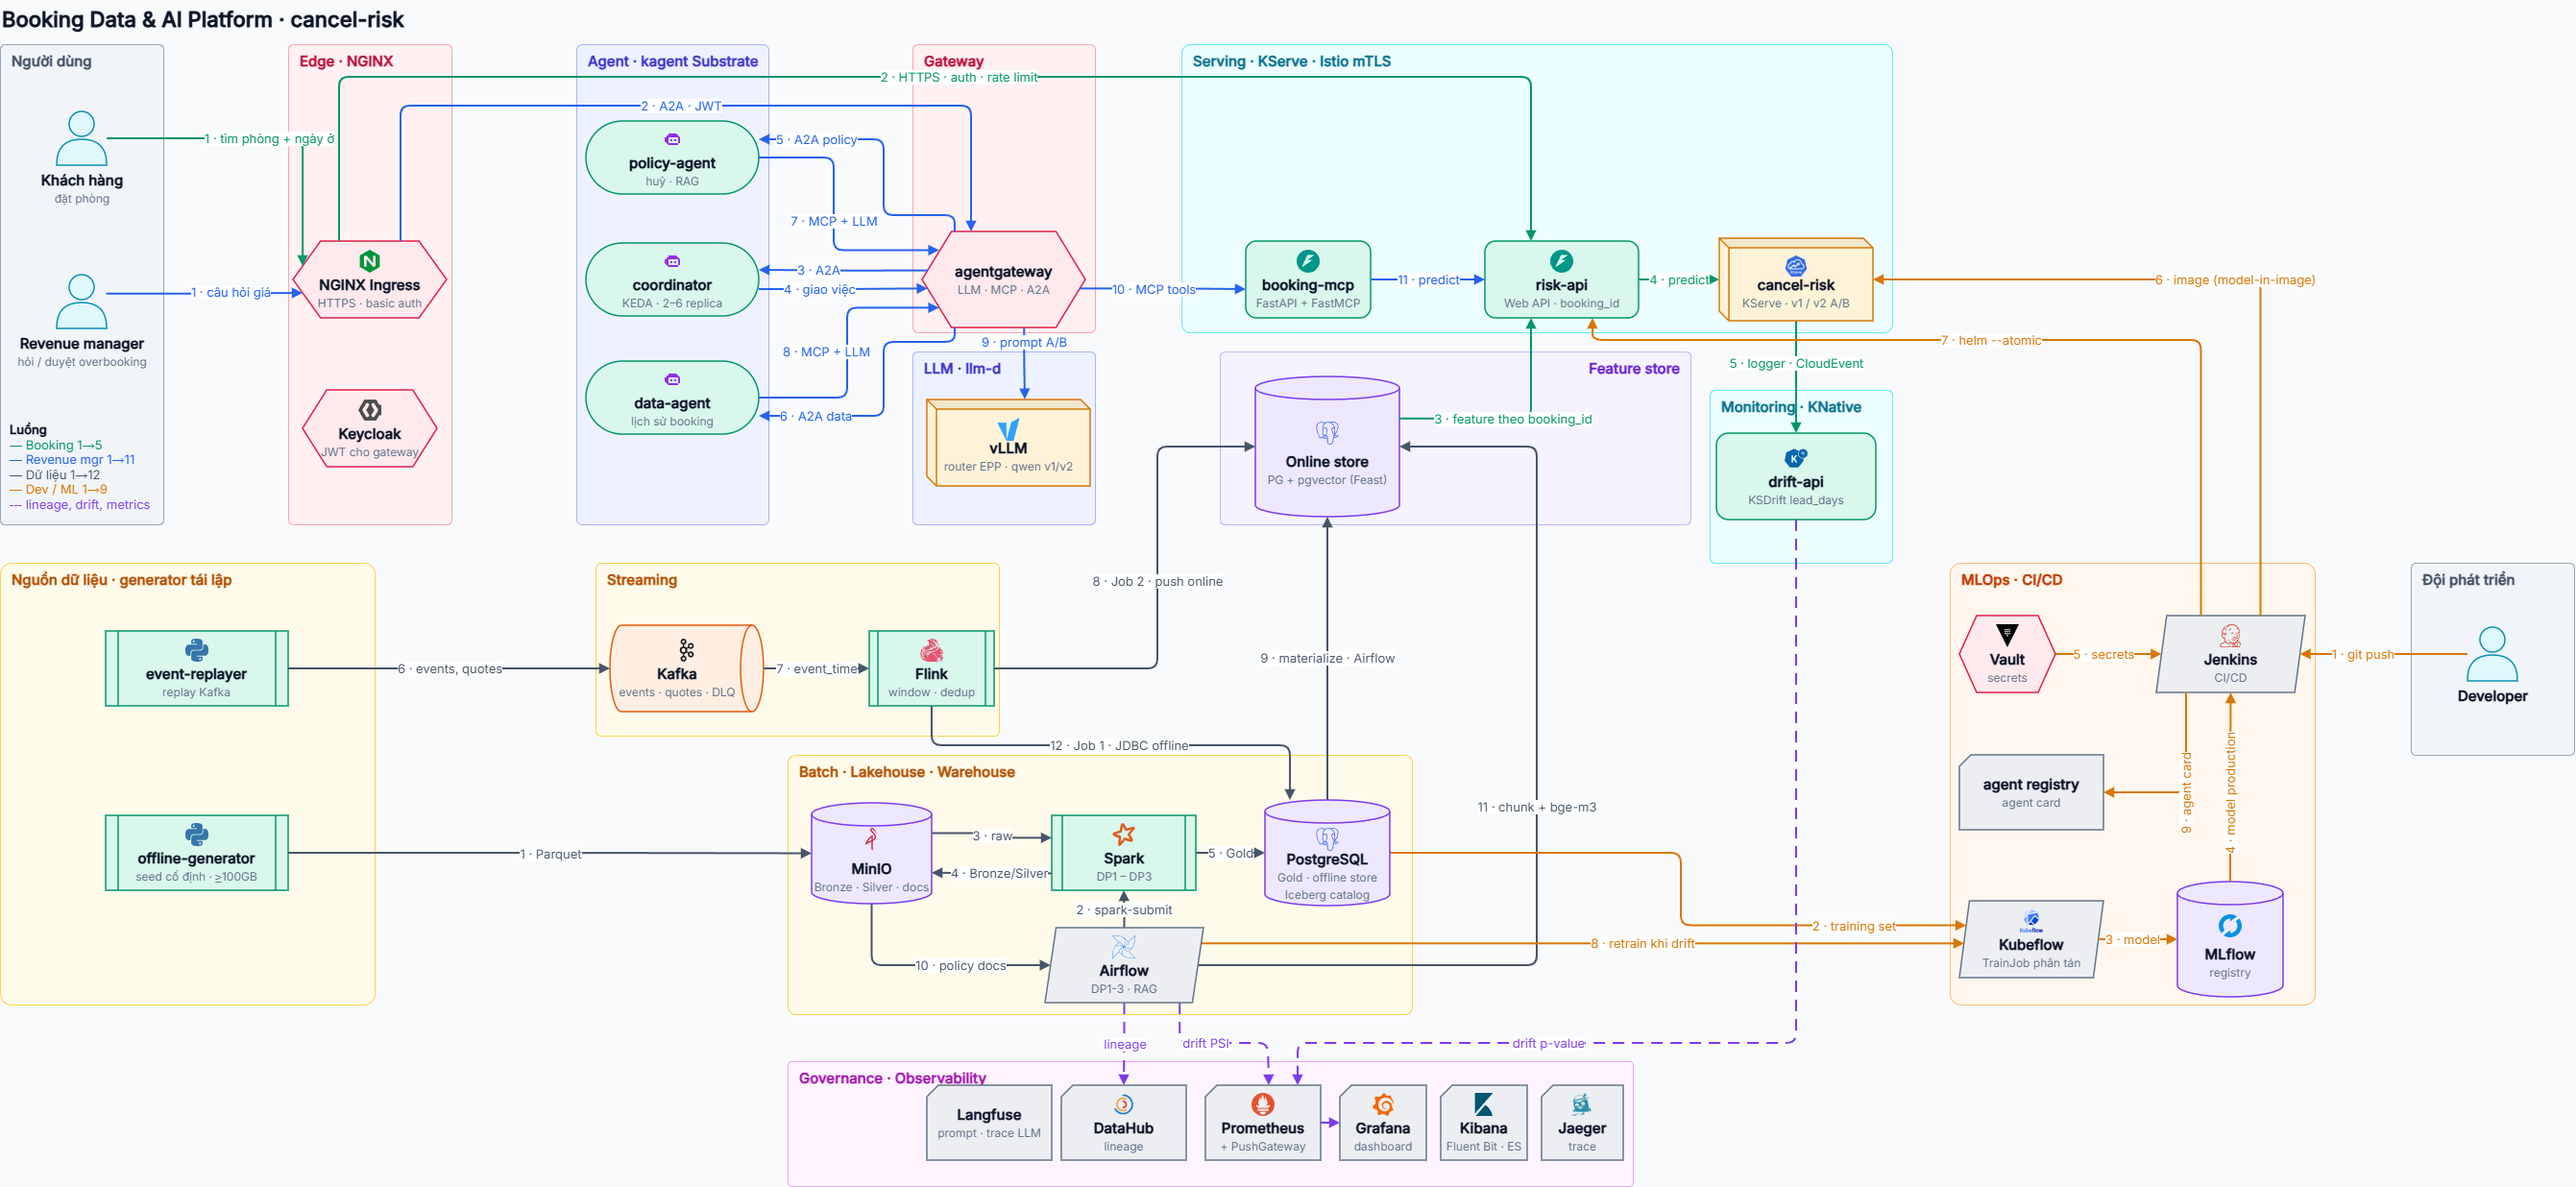
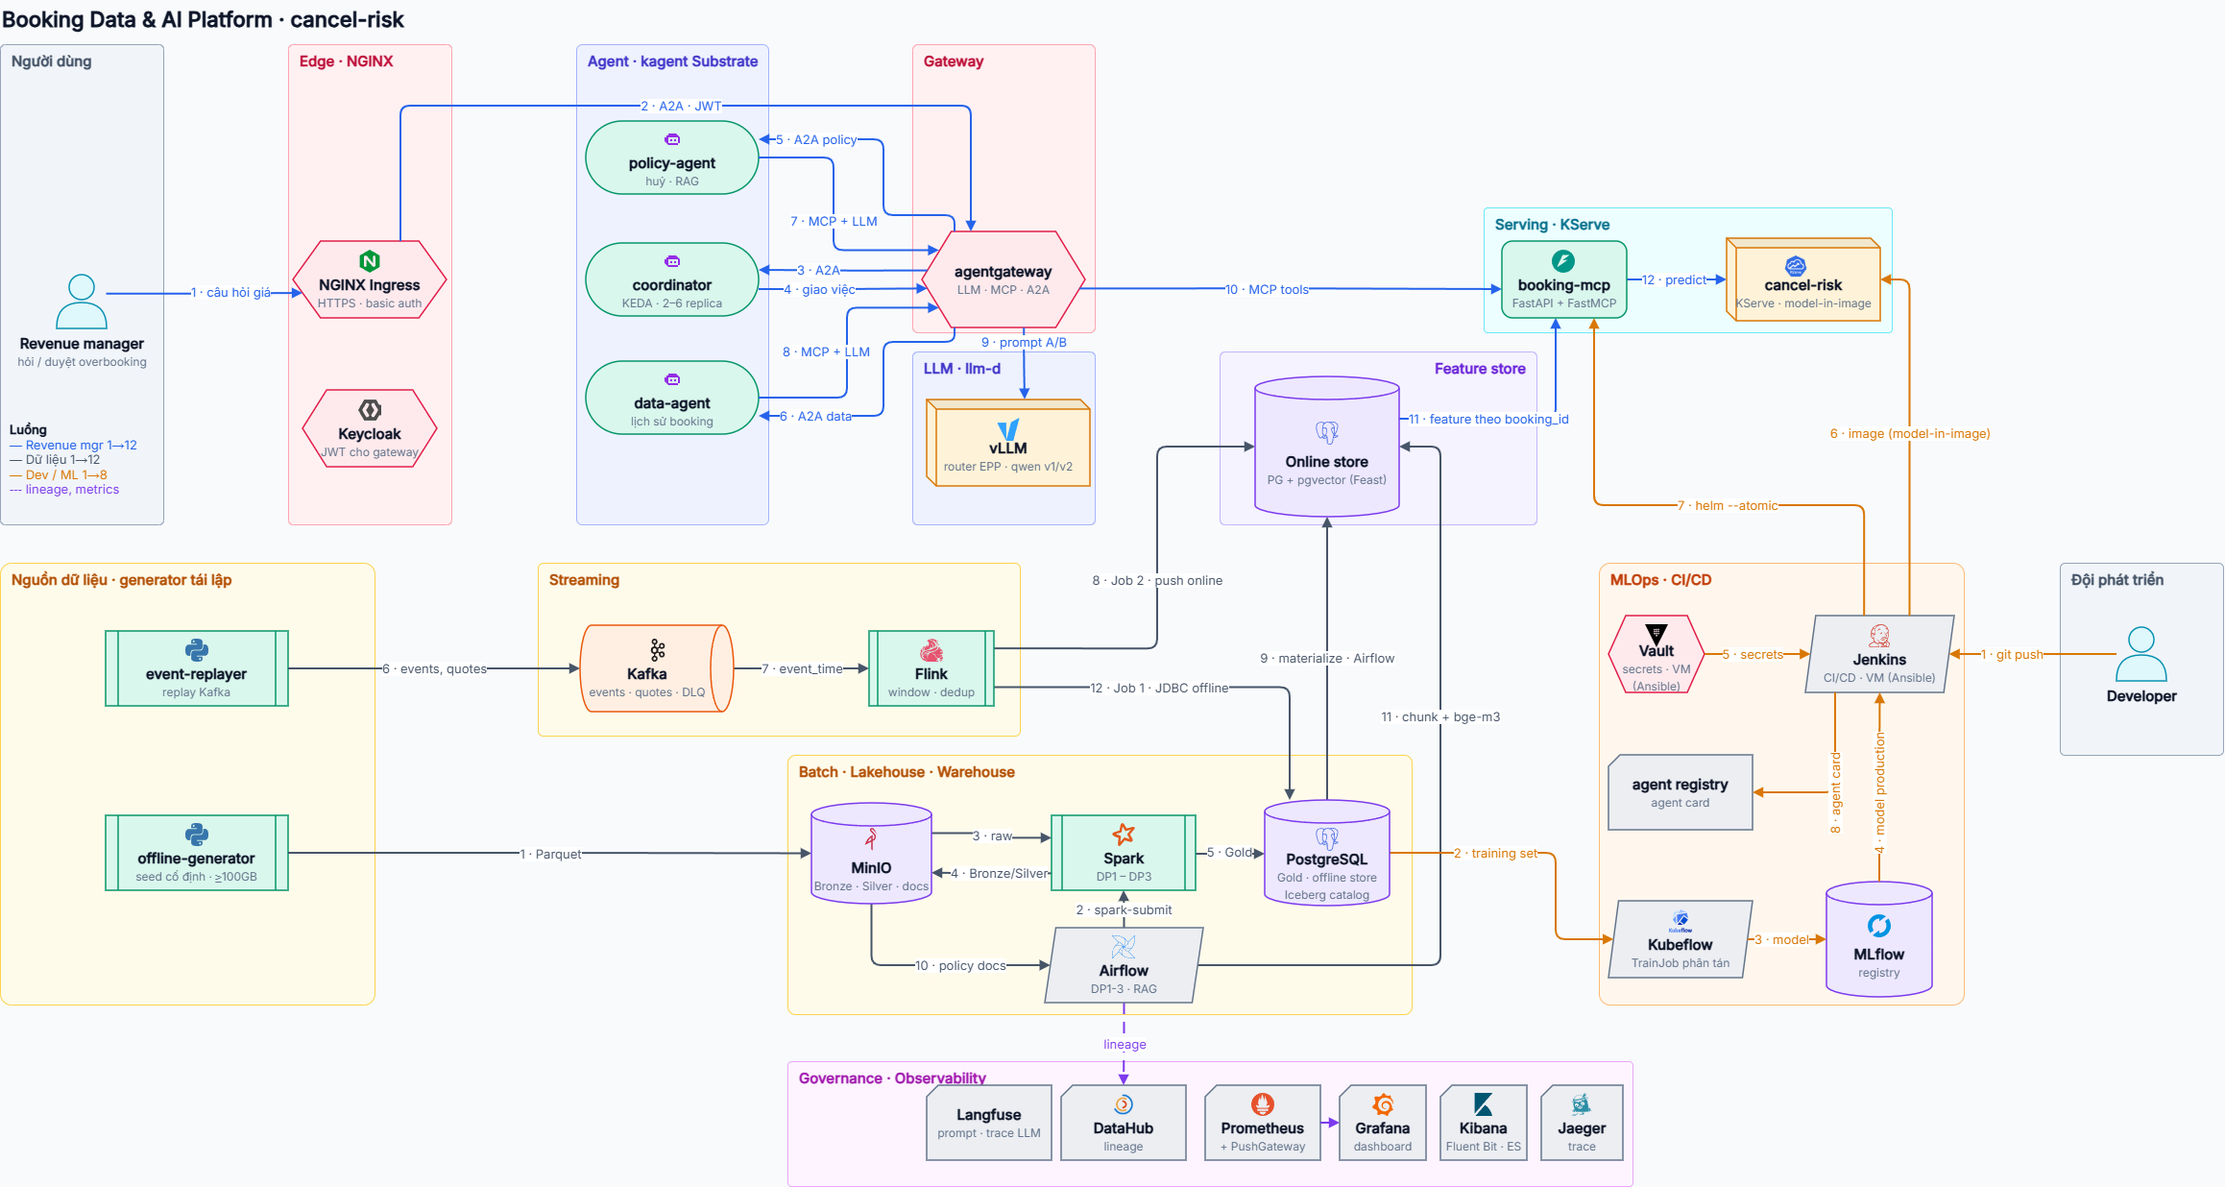
docs: scope problem design and architecture to edai-1 and edai-2

diff --git a/docs/problem_design.md b/docs/problem_design.md
@@ -27,7 +27,7 @@ Bài toán gồm hai tầng, tầng sau dùng kết quả của tầng trước.
 
 | Tầng | Đầu vào | Đầu ra | Thành phần |
 |---|---|---|---|
-| Dự báo | thuộc tính của một booking, lịch sử của khách và của khách sạn | xác suất huỷ $p_i$ của booking đó | model `cancel-risk` (XGBoost), phục vụ qua KServe và `risk-api` |
+| Dự báo | thuộc tính của một booking, lịch sử của khách và của khách sạn | xác suất huỷ $p_i$ của booking đó | model `cancel-risk` (XGBoost) phục vụ bằng KServe; tool `predict_cancellation` của `booking-mcp` lấy feature từ Feast online rồi gọi KServe |
 | Quyết định | các $p_i$ của mọi booking đang giữ phòng cho một `hotel × stay_date`, cùng hai chi phí | số phòng bán vượt $K$ | `mcp_server/overbooking.py`, tool `propose_overbooking` |
 
 Hai điểm cần lưu ý về phạm vi:
@@ -181,15 +181,17 @@ Tỉ lệ huỷ tăng từ 32,9% lên 47,4%. Model v1 train trên dữ liệu tr
 
 Vòng đời của model được thiết kế quanh sự kiện này:
 
-1. **Train v1** trên dữ liệu `[2025-01-01, 2025-06-01)`, qua cổng promote, đưa lên KServe.
-2. **Phát hiện drift.** Nhãn chưa chín nên không thể phát hiện qua độ chính xác. Hệ thống theo dõi phân phối của input:
-   `drift-api` chạy kiểm định KS trên `lead_days` theo thời gian thực; DAG `drift_monitor` tính PSI và KS mỗi ngày.
-   Theo thiết kế, PSI vượt 0,2 sau khoảng 6 ngày.
-3. **Chờ nhãn chín rồi mới retrain.** Nếu retrain ngay ngày phát hiện, tập train vẫn gần như toàn dữ liệu trước drift
-   và v2 có xu hướng giống v1. `drift_monitor` vì vậy chờ 120 ngày kể từ mốc phát hiện: 30 ngày booking sau drift cộng
-   90 ngày cho nhãn chín.
-4. **Canary và promote.** v2 chạy song song với v1 theo tỉ lệ 50/50 trên cùng InferenceService. Sau khi promote, DAG
-   `rescore_active` chấm lại các booking còn hiệu lực bằng v2.
+1. **Train v1** trên dữ liệu `[2025-01-01, 2025-06-01)` bằng training pipeline Kubeflow, lưu model và metadata lên
+   MLflow, qua cổng promote rồi đóng vào image KServe (model-inside-image).
+2. **Chờ nhãn chín rồi mới retrain.** Nếu retrain ngay sau mốc drift, tập train vẫn gần như toàn dữ liệu trước drift
+   và v2 có xu hướng giống v1. Cần khoảng 120 ngày sau mốc: 30 ngày booking sau drift cộng 90 ngày cho nhãn chín.
+3. **Train v2** bằng cùng pipeline trên dữ liệu sau mốc drift, qua cổng promote, build image KServe mới. DAG
+   `score_bookings` chấm booking mới bằng v2; `rescore_active` (chạy tay) chấm lại các booking còn giữ phòng.
+4. **So v1 với v2** bằng ground truth (mục 7): lệch calibration, Brier so với p thật và sai số K.
+
+Mốc drift được biết trước nên retrain v2 là bước chạy tay. Phát hiện drift tự động (kiểm định KS theo thời gian thực
+ở `drift-api`, PSI hằng ngày ở DAG `drift_monitor`) và canary 50/50 giữa hai phiên bản không thuộc rubric edai-1,
+edai-2; code của chúng vẫn nằm trong repo nhưng không triển khai.
 
 ## 7. Đánh giá bằng ground truth
 
@@ -231,6 +233,8 @@ câu hỏi cho policy-agent và data-agent; các agent gọi tool qua agentgatew
 - **Dữ liệu giả lập.** Mọi kết quả phụ thuộc công thức nhãn của generator. Ưu điểm là có ground truth để chấm; hạn chế
   là chưa kiểm chứng trên dữ liệu thật.
 - **Không định giá.** Phần tối ưu giá đã được cắt khỏi phạm vi; hệ thống chỉ có một model `cancel-risk`.
+- **Không tự động hoá vòng đời model.** Không phát hiện drift tự động, không canary giữa hai phiên bản model (mục 6);
+  A/B chỉ áp cho agent và phiên bản LLM trên nền tảng LLM.
 
 ## 10. Thuật ngữ
 
